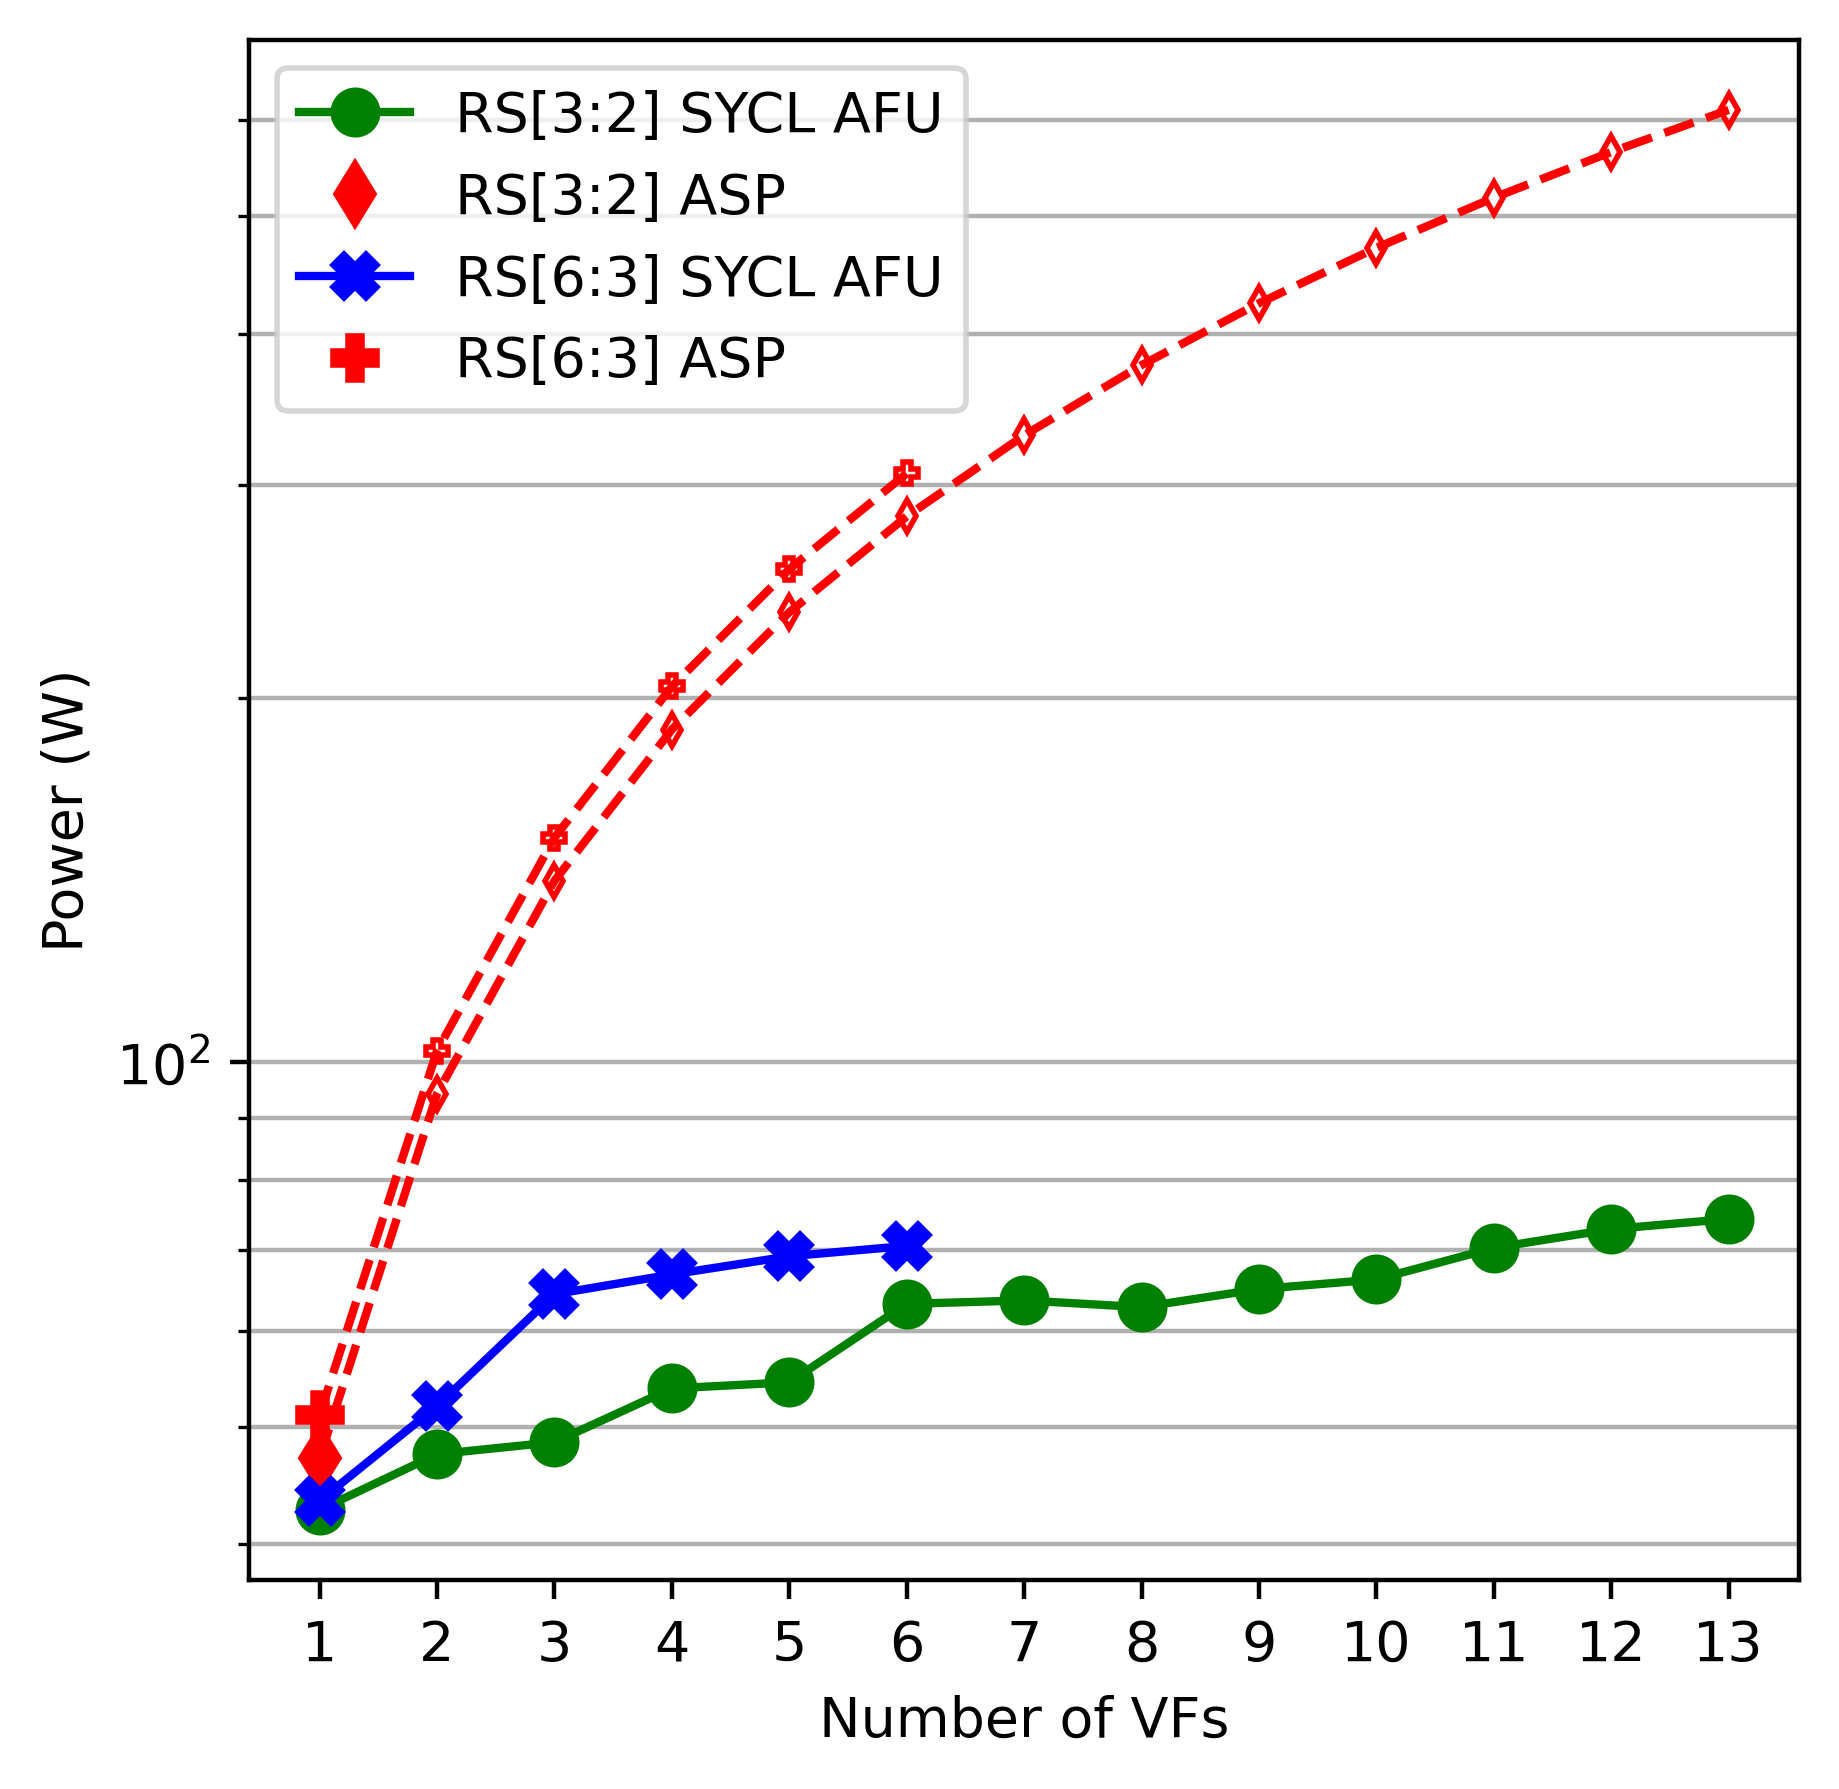
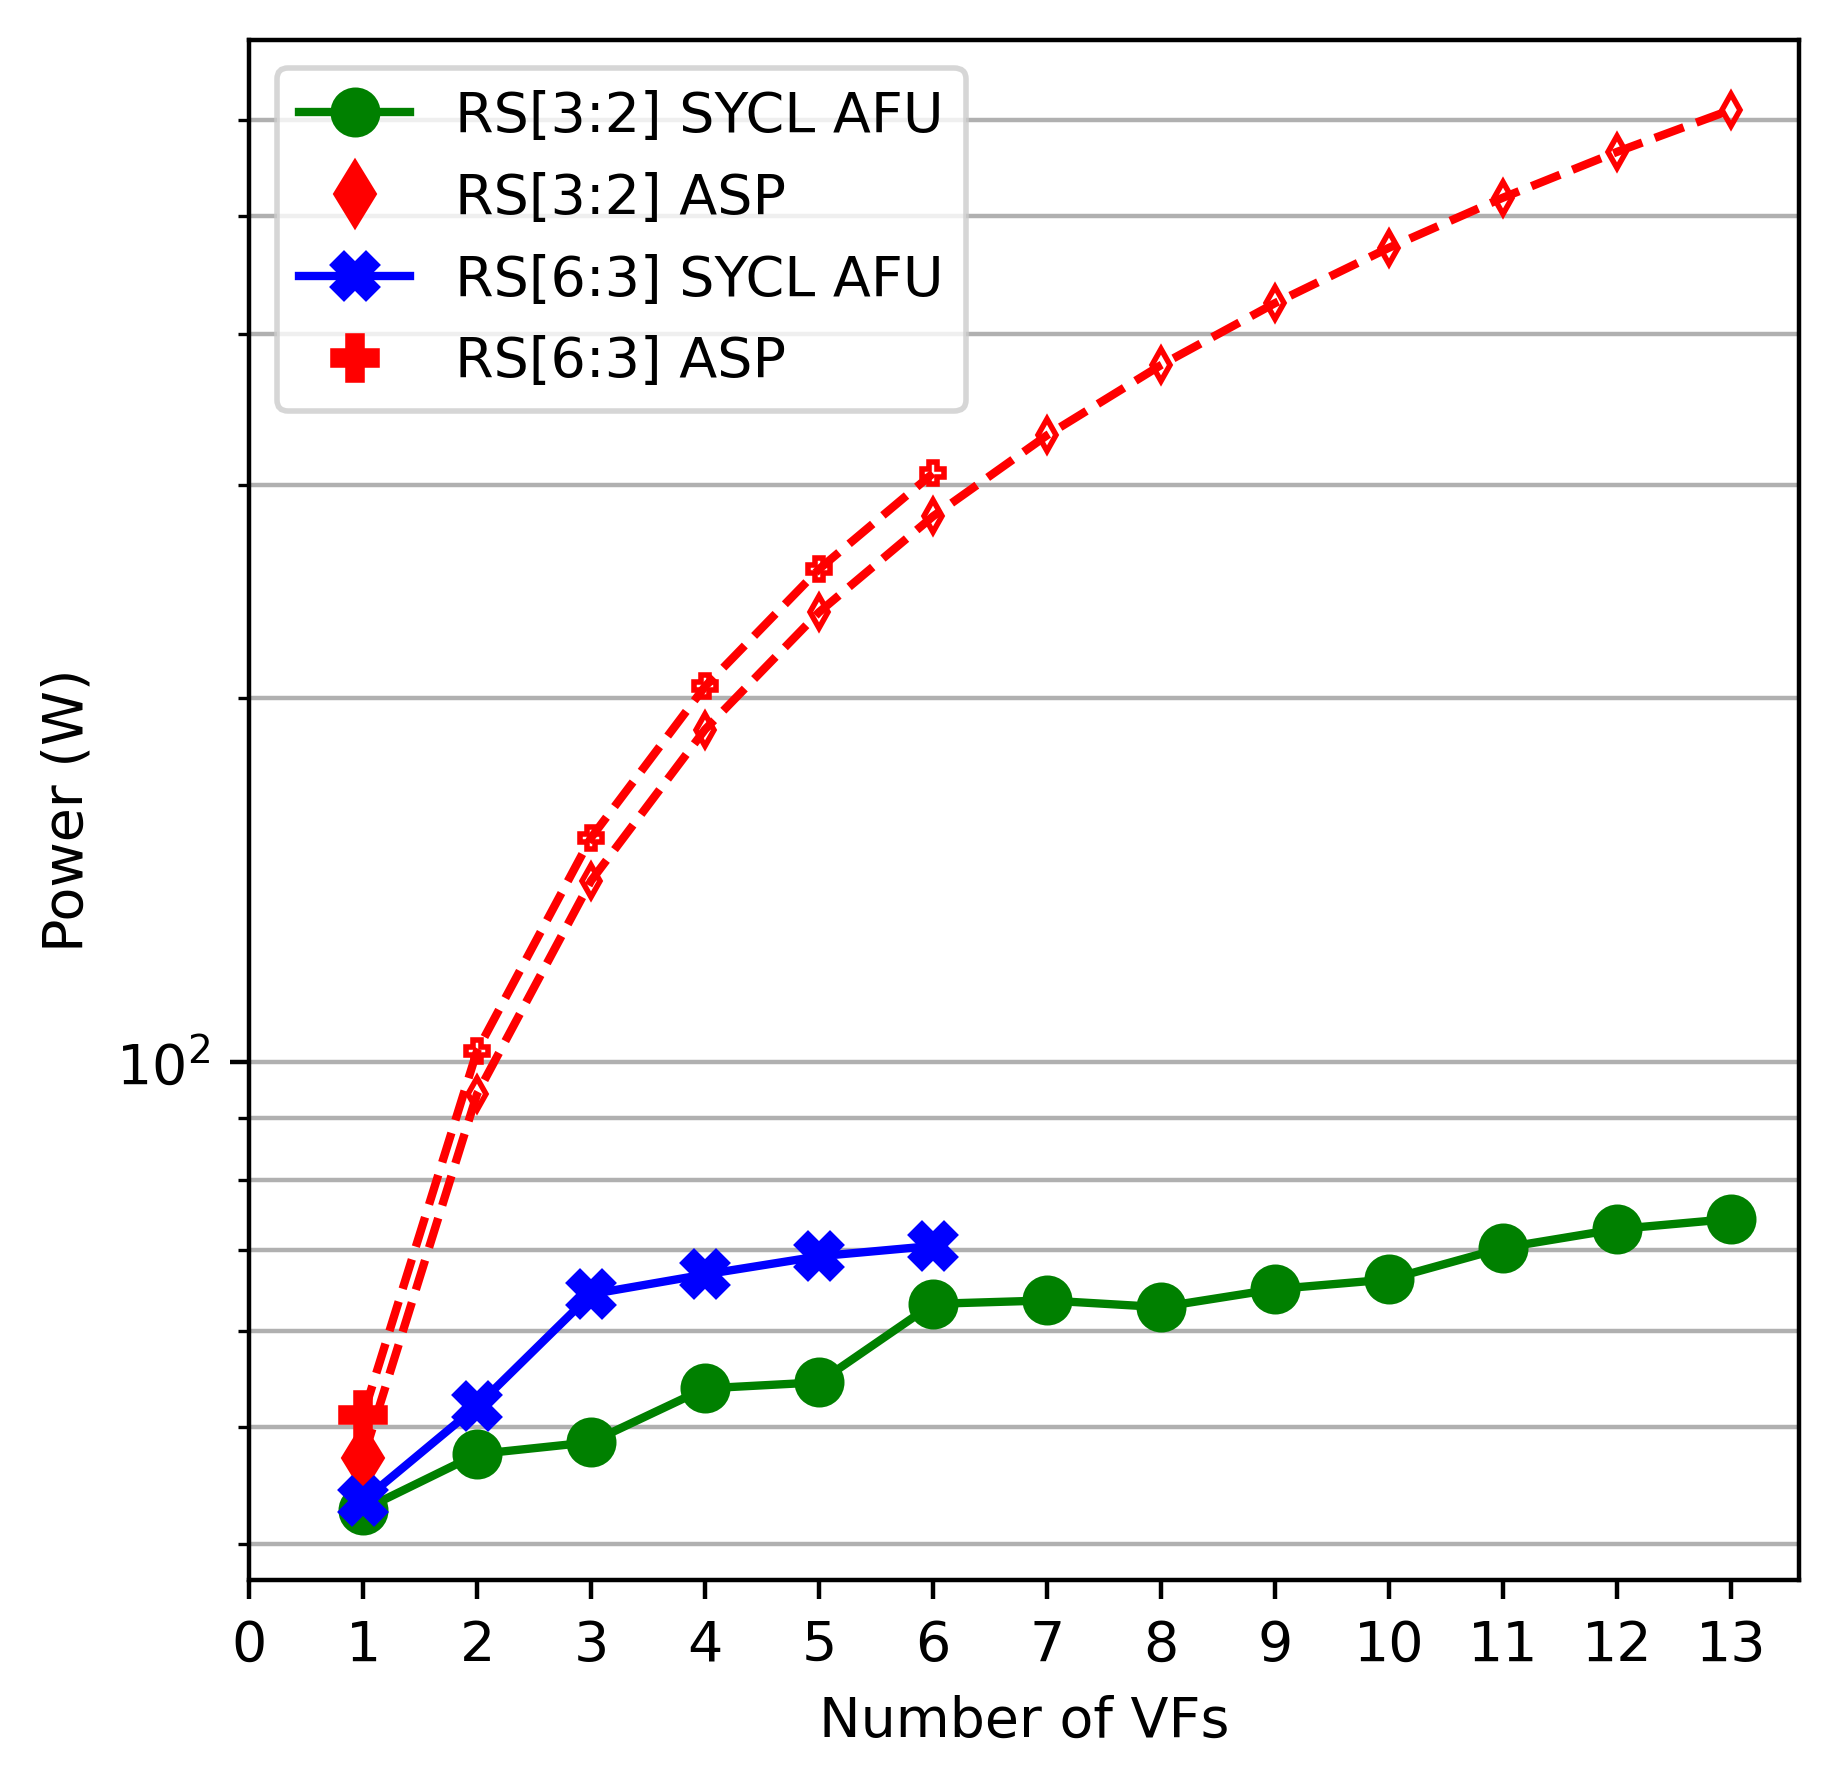
[Backup] Tmp backup for host recovery

diff --git a/measures/power/plot_power.py b/measures/power/plot_power.py
@@ -16,21 +16,21 @@ os.makedirs(plot_dir, exist_ok=True)
 # Read data
 data_df = pandas.read_csv(input_file, sep=";")
 pandas.to_numeric(data_df["numVFs"])
-print(data_df)
+# print(data_df)
 
-# RS[3:2]
-rs_3_2_df = data_df.loc[
-                (data_df["K:P"] == "3:2") &
-                (data_df["Bitstream"] == "flat")
-            ]
-print(rs_3_2_df)
+# # RS[3:2]
+# rs_3_2_df = data_df.loc[
+#                 (data_df["K:P"] == "3:2") &
+#                 (data_df["Bitstream"] == "flat")
+#             ]
+# print(rs_3_2_df)
 
-# RS[6:3]
-rs_6_3_df = data_df.loc[
-                (data_df["K:P"] == "6:3") &
-                (data_df["Bitstream"] == "flat")
-            ]
-print(rs_6_3_df)
+# # RS[6:3]
+# rs_6_3_df = data_df.loc[
+#                 (data_df["K:P"] == "6:3") &
+#                 (data_df["Bitstream"] == "flat")
+#             ]
+# print(rs_6_3_df)
 
 
 # Common
@@ -130,6 +130,29 @@ for rs in range(0,len(RS_SCHEMA_list)):
             color="r",
         )
 
+    # 0x VFs
+    # print_df = data_df.loc[
+    #                 (data_df["numVFs"] == 0)
+    #             ]
+    # plt.plot(
+    #         print_df["numVFs"],
+    #         print_df["board_power (W)"],
+    #         "o",
+    #         markersize=MARKER_SIZE,
+    #         color="grey",
+    #         markerfacecolor='none',
+    #         label=""
+    #     )
+    # plt.plot(
+    #         print_df["numVFs"],
+    #         print_df["power_12V (W)"],
+    #         "o",
+    #         markersize=MARKER_SIZE,
+    #         color="grey",
+    #         markerfacecolor='none',
+    #         label=""
+    #     )
+
     # Decorate
     plt.yscale('log')
     plt.xlabel("Number of VFs")
@@ -215,3 +238,23 @@ for rs in range(0,len(RS_SCHEMA_list)):
 figname = plot_dir + "/vf_power_board.png"
 print(figname)
 plt.savefig(figname, dpi=400, bbox_inches="tight")
+
+# Compute power range
+power_range = [0. for _ in range(len(RS_SCHEMA_list))]
+for rs in range(0,len(RS_SCHEMA_list)):
+    # Compose label
+    rs_name = "RS[" + RS_SCHEMA_txt[rs] + "]"
+
+    # Select data
+    print_df = data_df.loc[
+                    (data_df["K:P"] == RS_SCHEMA_txt[rs]) &
+                    (data_df["Bitstream"] == "flat")
+                ]
+    # Get max and min
+    power_max = print_df["power_12V (W)"].max()
+    power_min = print_df["power_12V (W)"].min()
+    # Compute range
+    power_range[rs] = power_min / power_max
+
+    # Print out
+    print("power_range " + RS_SCHEMA_txt[rs] + " " + str(100 * power_range[rs]) + " %")

diff --git a/measures/power/power_vfs.py b/measures/power/power_vfs.py
@@ -1,10 +1,11 @@
 #!/bin/python
+# Description:
+#   Pre-processing script for power measures. For now, it just computes averages.
 
 import pandas
-import numpy
 
 # Default args
-input_file = "measures/power/data/power_2x_RS_6_3.csv"
+input_file = "measures/power/data/power_0x.csv"
 # output_file = "measures/power/power_vfs.csv"
 
 # Parse args
@@ -26,3 +27,4 @@ print("power_12V (W),power_3V3 (W),board_power (W)")
 print(str(power_12V_W) + ";" + str(power_3V3_W) + ";" + str(board_power_W))
 
 # Append to output file
+# TBD
